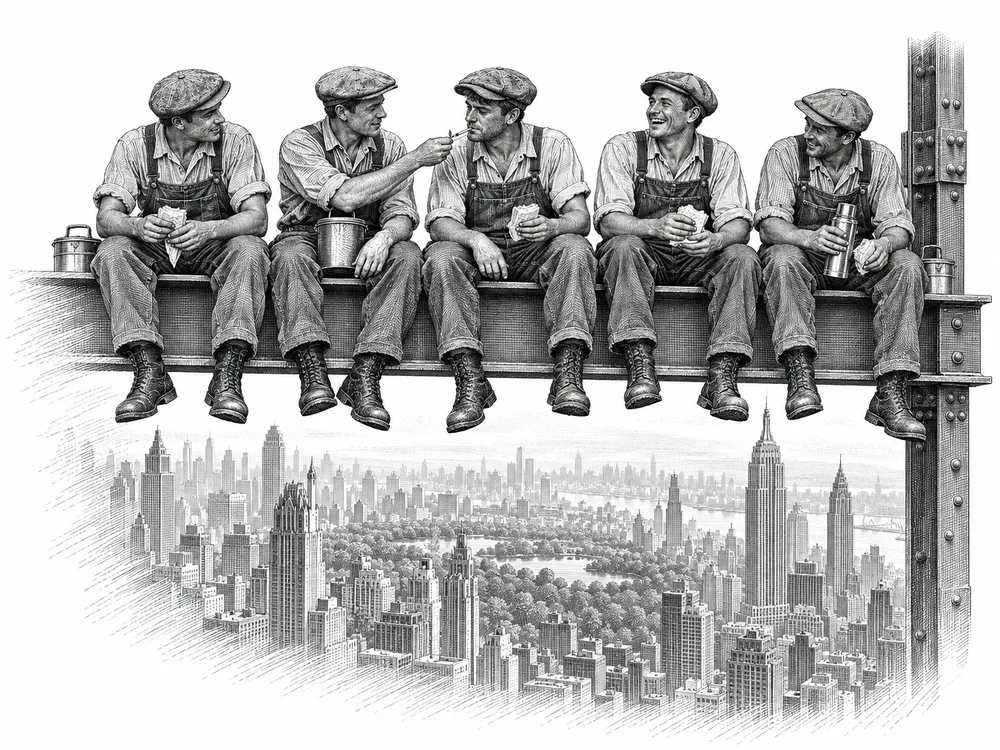
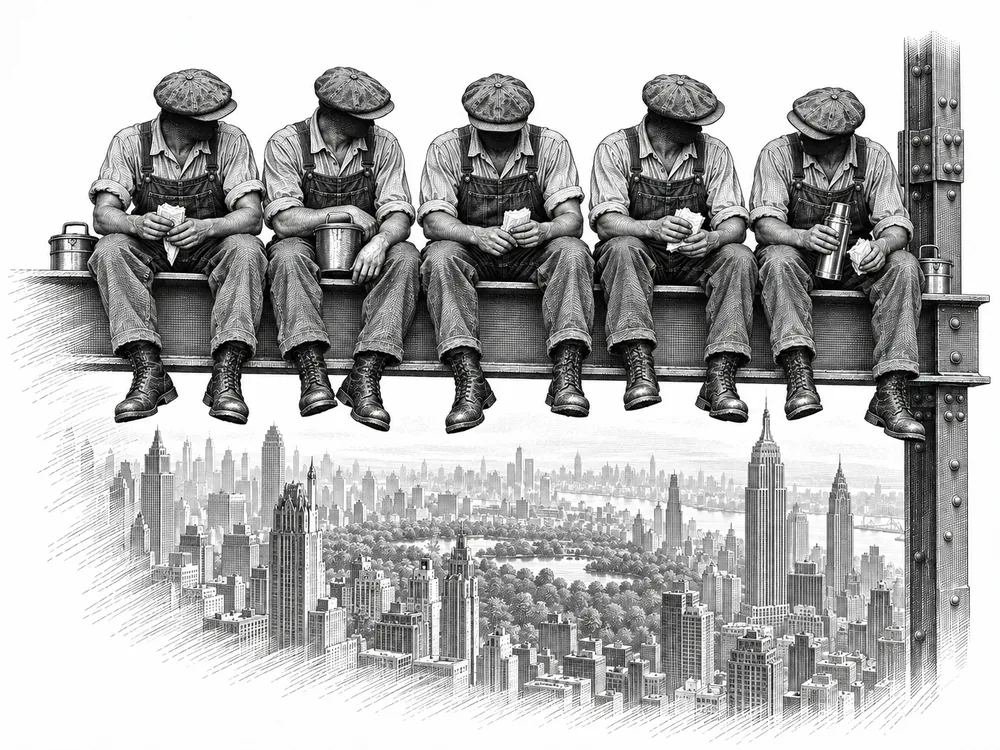
fix: faceless ironworkers, lazy-load header art, smaller dark engravings
- Redraw the lunch scene with the men's faces hidden under their caps.
- Drop priority from HeaderFigure: both scheme variants were preloaded on every
  visit, phones included. Default lazy loading fetches only the shown variant.
- Re-encode the dark engravings with alpha_quality 60 (394 KB -> 162 KB for the
  box worker; 517 KB -> 203 KB for the lunch scene).

diff --git a/web/src/components/header-figure.tsx b/web/src/components/header-figure.tsx
@@ -4,7 +4,8 @@ import Image, { type StaticImageData } from "next/image";
  * Engraved figure behind a page header, with a separate dark-mode drawing. A person does not
  * survive the `ink-art` inversion (the face turns into a photo negative), so dark mode uses a
  * white-line version with a transparent background instead. The parent must be `relative`.
- * Decorative: empty alt text, hidden on phones so the data comes first.
+ * Decorative: empty alt text, hidden on phones so the data comes first. No `priority`: the default
+ * lazy loading fetches only the variant that is displayed, so phones and the hidden scheme load nothing.
  */
 export default function HeaderFigure({
   light,
@@ -21,8 +22,8 @@ export default function HeaderFigure({
   const base = `pointer-events-none absolute -z-10 hidden h-auto select-none ${className}`;
   return (
     <>
-      <Image src={light} alt="" priority sizes={sizes} className={`${base} sm:block sm:dark:hidden`} />
-      <Image src={dark} alt="" priority sizes={sizes} className={`${base} sm:dark:block`} />
+      <Image src={light} alt="" sizes={sizes} className={`${base} sm:block sm:dark:hidden`} />
+      <Image src={dark} alt="" sizes={sizes} className={`${base} sm:dark:block`} />
     </>
   );
 }
